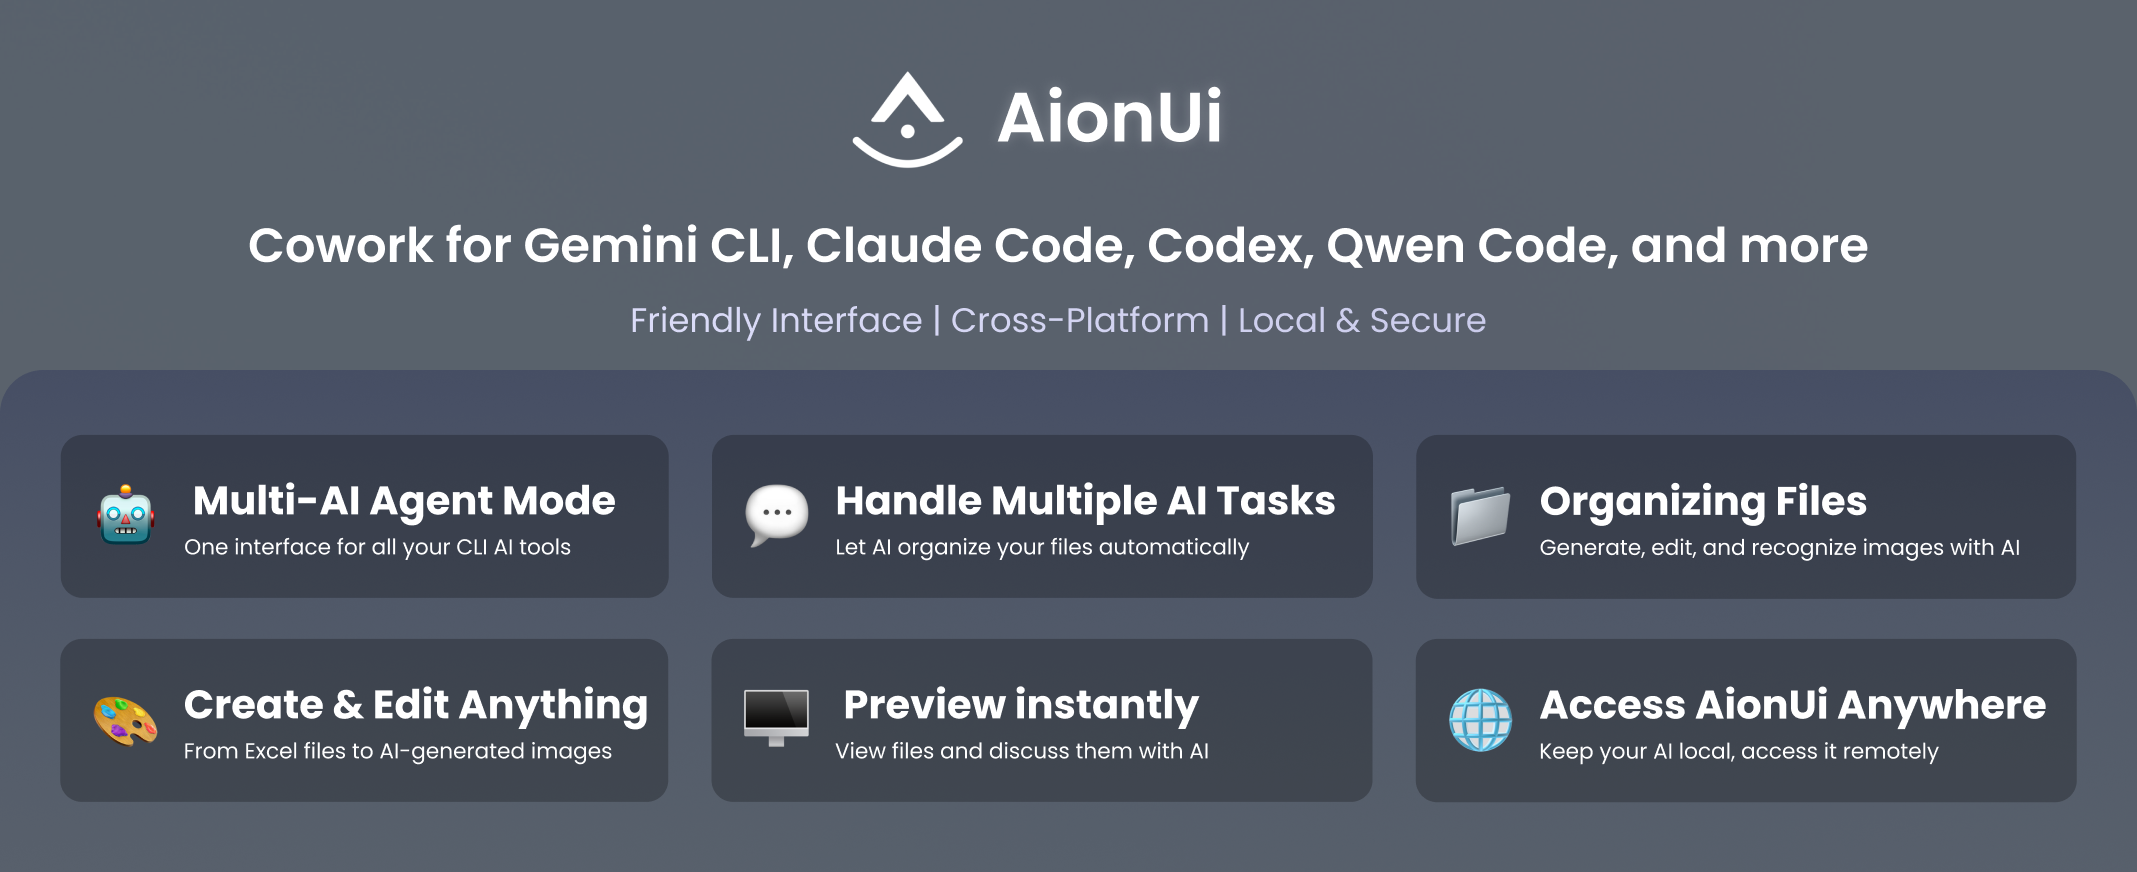
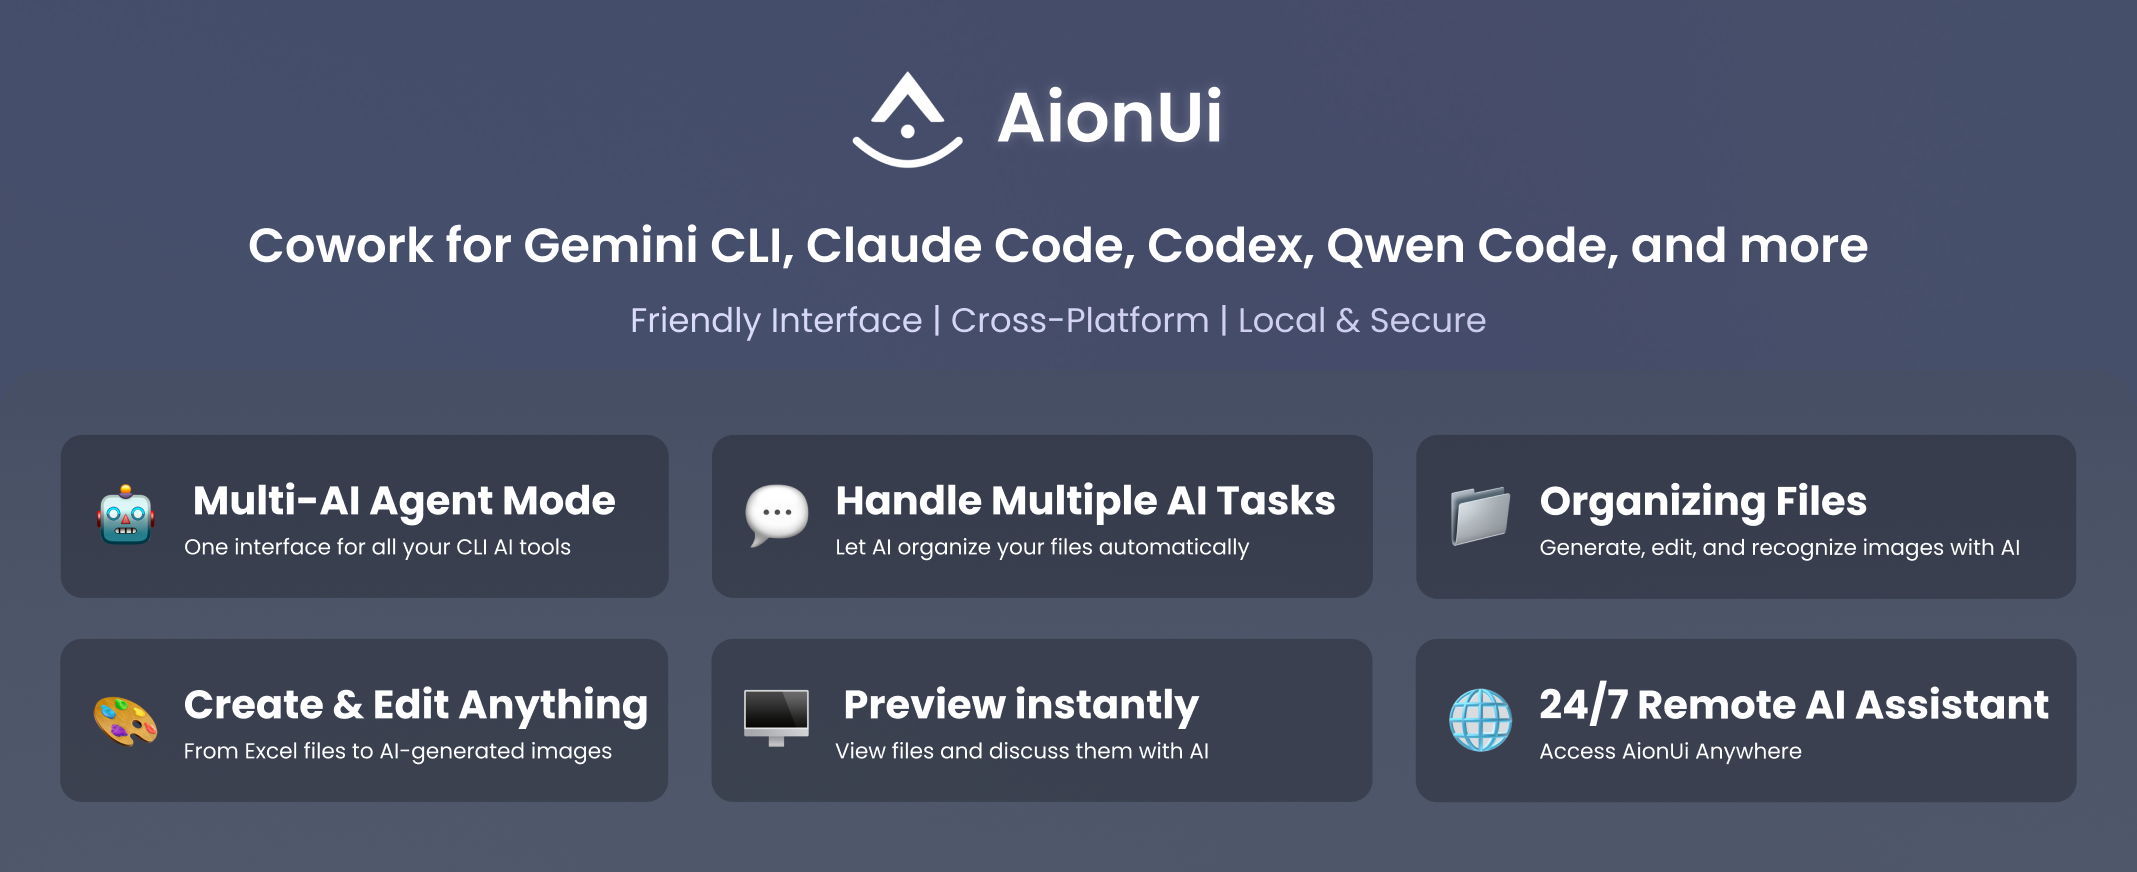
docs: update WebUI section in all README versions
- Simplify WebUI description across all language versions
- Emphasize 7×24 hour AI assistant concept
- Add scenario-based descriptions (business trips, home, office)
- Highlight one-click GUI startup instead of command-line
- Update to use video instead of static image
- Add links to remote internet access guide
- Include webui.mp4 video resource

Changed region(s): [[0.7103, 0.7741, 0.9574, 0.867]]

diff --git a/readme.md b/readme.md
@@ -139,17 +139,15 @@ _Open multiple conversations, tasks don't get mixed up, independent memory, doub
 
 ### 🌐 **Access Anywhere - WebUI Mode**
 
-_Remotely control your AI tools - Access AionUi from any device on the network! Securely control local Gemini CLI, Claude Code, Codex, and other tools, data never leaves your device_
+_Your 7×24 hour AI assistant - Access AionUi from any device on the network! On business trips, at home, in the office, use your AI tools anytime, anywhere_
 
-```bash
-# Basic startup
-AionUi --webui
+**✨ One-click start**: Open the WebUI option in the settings panel and click the switch to start!
 
-# Remote access (accessible from other devices on the local network)
-AionUi --webui --remote
-```
+- ✅ **Cross-device access** - Phone, tablet, computer, any device can access
+- ✅ **Remote collaboration** - Supports LAN, cross-network, server deployment and more
+- ✅ **Secure and reliable** - Password management, QR code login, data never leaves your device
 
-> 💡 **Need detailed configuration guide?** Check out the [WebUI Configuration Tutorial](https://github.com/iOfficeAI/AionUi/wiki/WebUI-Configuration-Guide) - includes complete startup commands for all platforms
+> 💡 **Need detailed configuration guide?** Check out the [WebUI Configuration Tutorial](https://github.com/iOfficeAI/AionUi/wiki/WebUI-Configuration-Guide) and [Remote Internet Access Guide](https://github.com/iOfficeAI/AionUi/wiki/Remote-Internet-Access-Guide)
 
 <p align="center">
   <video width="800" controls poster="./resources/webui banner.png">
